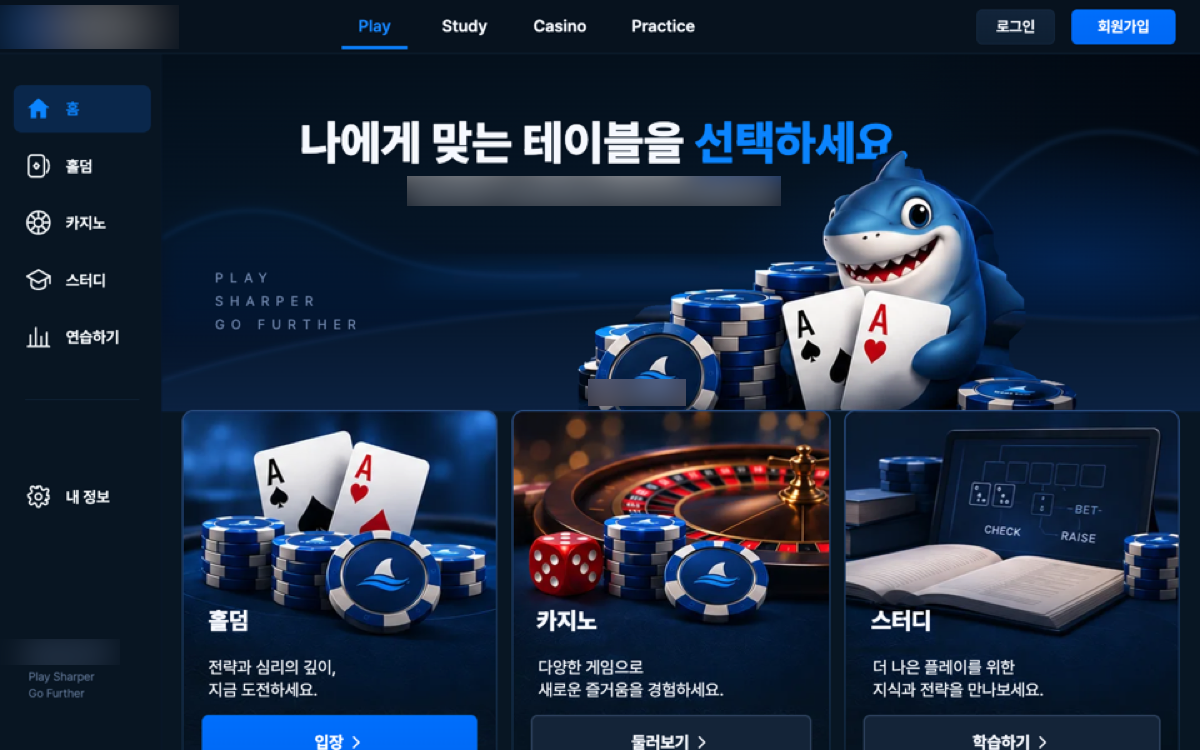
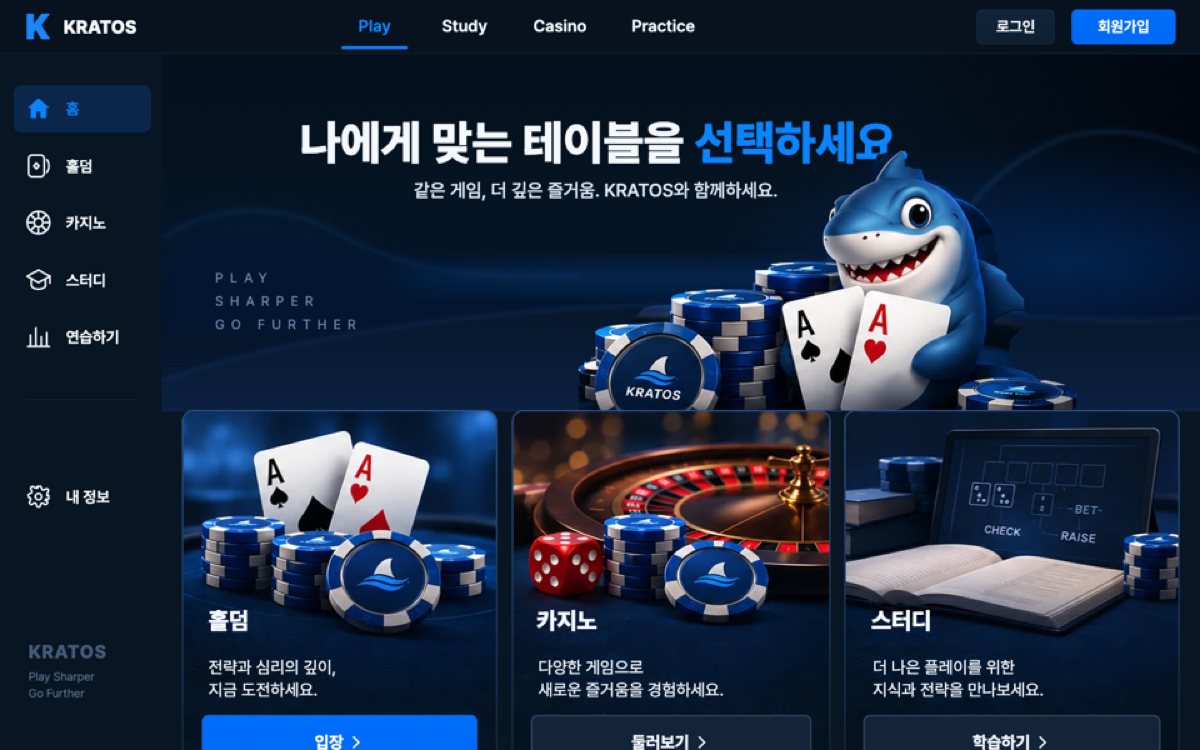
KRATOS 외 회사·브랜드명 일반 명칭으로, KRATOS 캡처는 원본 유지

diff --git a/README.md b/README.md
@@ -7,13 +7,13 @@
 
 | | 서비스 | 링크 |
 |---|---|---|
-| 1 | **WorkSign** · 모바일 전자근로계약서 | https://worksign.co.kr |
-| 2 | **StockUp** · 청소년 주식 학습 모의투자 앱 | https://stockup.kratos1.cloud |
+| 1 | **모바일 전자근로계약서 서비스** | https://worksign.co.kr |
+| 2 | **청소년 주식 학습 모의투자 앱** | https://stockup.kratos1.cloud |
 | 3 | **GTO KRATOS** · 포커 전략 학습·게임 웹앱 | https://kratos1.cloud/gtokrato |
 
 ---
 
-### 1. WorkSign — 모바일 전자근로계약서
+### 1. 모바일 전자근로계약서 서비스
 **https://worksign.co.kr**
 
 노무법인 의뢰로 만든 실서비스. 사업주가 한글·워드·PDF 계약서를 올려 입력칸을 지정하고 보내면, 근로자가 휴대폰으로 채우고 서명합니다. 서명 문서는 위·변조를 막도록 봉인됩니다.
@@ -22,7 +22,7 @@
 - **만든 방법**: Next.js 15 · Prisma · Postgres(Supabase) · 문서 처리 워커 · Docker · AWS 서울 서버
 - **AI 활용**: 고객 지시를 AI 작업 지침서로 정리해 변경 요청마다 근거를 남기고, AI가 구현한 결과를 자동 검사로 검증 — 테스트 329개 · 접근성(WCAG 2.2) 위반 0건 · Lighthouse 100점
 
-<a href="https://worksign.co.kr"><img src="shots/projects/worksign/landing.png" width="720" alt="WorkSign"></a>
+<a href="https://worksign.co.kr"><img src="shots/projects/worksign/landing.png" width="720" alt="전자근로계약서"></a>
 
 | 입력칸 지정 에디터 | 근로자 모바일 서명 |
 |---|---|
@@ -32,7 +32,7 @@
 
 <sub>화면 캡처는 가상 회사·가상 인물 데이터입니다.</sub>
 
-### 2. StockUp — 청소년 주식 학습 모의투자 앱
+### 2. 청소년 주식 학습 모의투자 앱
 **https://stockup.kratos1.cloud**
 
 만 15세 이상 청소년이 가상 자금으로 투자를 배우는 앱. 실제 시세로 연습하고, 레슨·퀴즈로 개념을 익힙니다.
@@ -77,7 +77,7 @@
 - 홈: https://kratos1.cloud/
 - 데모 모음: https://kratos1.cloud/demos
 
-### 케이·에스컬레이터 (제조사 홈페이지 · 시안 3종)
+### 에스컬레이터 제조사 홈페이지 (시안 3종)
 같은 회사를 세 가지 방향(기본·현대형·백과사전형)으로 제안한 시안.
 
 <a href="https://kratos1.cloud/escalator/"><img src="shots/designs/k-escalator/base.png" width="32%" alt="기본형"></a>
@@ -88,7 +88,7 @@
 - 현대형: https://kratos1.cloud/p/ke-hyundai/
 - 백과사전형: https://kratos1.cloud/p/ke-hpedia/
 
-### EPIC (인사·조직 컨설팅 · 시안 2종)
+### 인사·조직 컨설팅사 홈페이지 (시안 2종)
 컨설팅 회사의 신뢰감을 살린 두 가지 레이아웃 시안.
 
 <a href="https://kratos1.cloud/p/epic/"><img src="shots/designs/epic/a.png" width="49%" alt="1안"></a>
@@ -97,7 +97,7 @@
 - 1안: https://kratos1.cloud/p/epic/
 - 2안: https://kratos1.cloud/p/epic-jbfg-1009/
 
-### 강남노무법인 K-LABOR
+### 노무법인 홈페이지 · 자가진단 · 관리자
 노무법인 홈페이지 리뉴얼. 관리자 대시보드와 AI 노무 자가진단까지 한 세트로 설계.
 
 - 홈페이지: https://kratos1.cloud/p/klabor-7f3c9a/
@@ -108,23 +108,23 @@
 <a href="https://kratos1.cloud/p/klabor-7f3c9a/ai-check/"><img src="shots/designs/k-labor/ai-check.png" width="32%" alt="AI 노무 자가진단"></a>
 <a href="https://kratos1.cloud/p/klabor-7f3c9a/admin/"><img src="shots/designs/k-labor/admin.png" width="32%" alt="관리자 대시보드"></a>
 
-### 언양만화방 (24시간 만화카페)
+### 24시간 만화카페 홈페이지
 도서 검색·이용 요금·오시는 길을 한 화면에 담은 만화카페 홈페이지.
 
-- 언양만화방: https://eonyang-comic.pages.dev/
+- 만화카페: https://eonyang-comic.pages.dev/
 
-<a href="https://eonyang-comic.pages.dev/"><img src="shots/designs/eonyang/home.png" width="49%" alt="언양만화방"></a>
+<a href="https://eonyang-comic.pages.dev/"><img src="shots/designs/eonyang/home.png" width="49%" alt="만화카페"></a>
 
-### EGATTOC (웰니스 쇼핑몰)
+### 웰니스 쇼핑몰
 식품·바디케어 웰니스 쇼핑몰.
 
-<a href="https://cyb3rmaya.github.io/egattoc-wellness/"><img src="shots/designs/egattoc/home.png" width="49%" alt="EGATTOC"></a>
+<a href="https://cyb3rmaya.github.io/egattoc-wellness/"><img src="shots/designs/egattoc/home.png" width="49%" alt="웰니스 쇼핑몰"></a>
 
-- EGATTOC: https://cyb3rmaya.github.io/egattoc-wellness/
+- 쇼핑몰: https://cyb3rmaya.github.io/egattoc-wellness/
 
-### 바로시작 (청년 취업지원제도 안내 챗봇 시제품)
+### 청년 취업지원제도 안내 챗봇 (시제품)
 질문 몇 개로 받을 수 있는 지원금을 안내하는 챗봇 시제품.
 
-<a href="https://cyb3rmaya.github.io/barosijak-demo/"><img src="shots/designs/barosijak/home.png" width="49%" alt="바로시작"></a>
+<a href="https://cyb3rmaya.github.io/barosijak-demo/"><img src="shots/designs/barosijak/home.png" width="49%" alt="안내 챗봇"></a>
 
-- 바로시작: https://cyb3rmaya.github.io/barosijak-demo/
+- 챗봇: https://cyb3rmaya.github.io/barosijak-demo/
